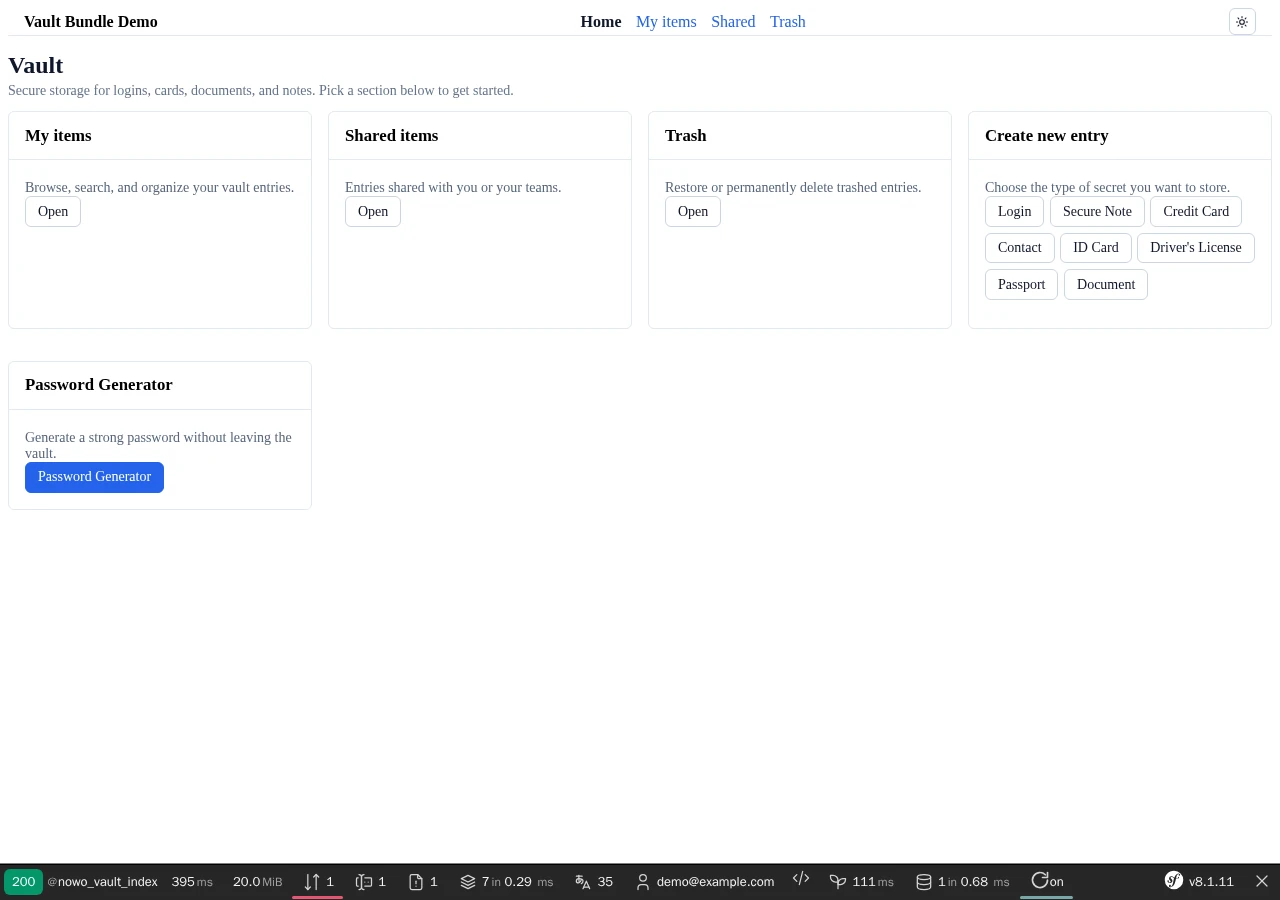
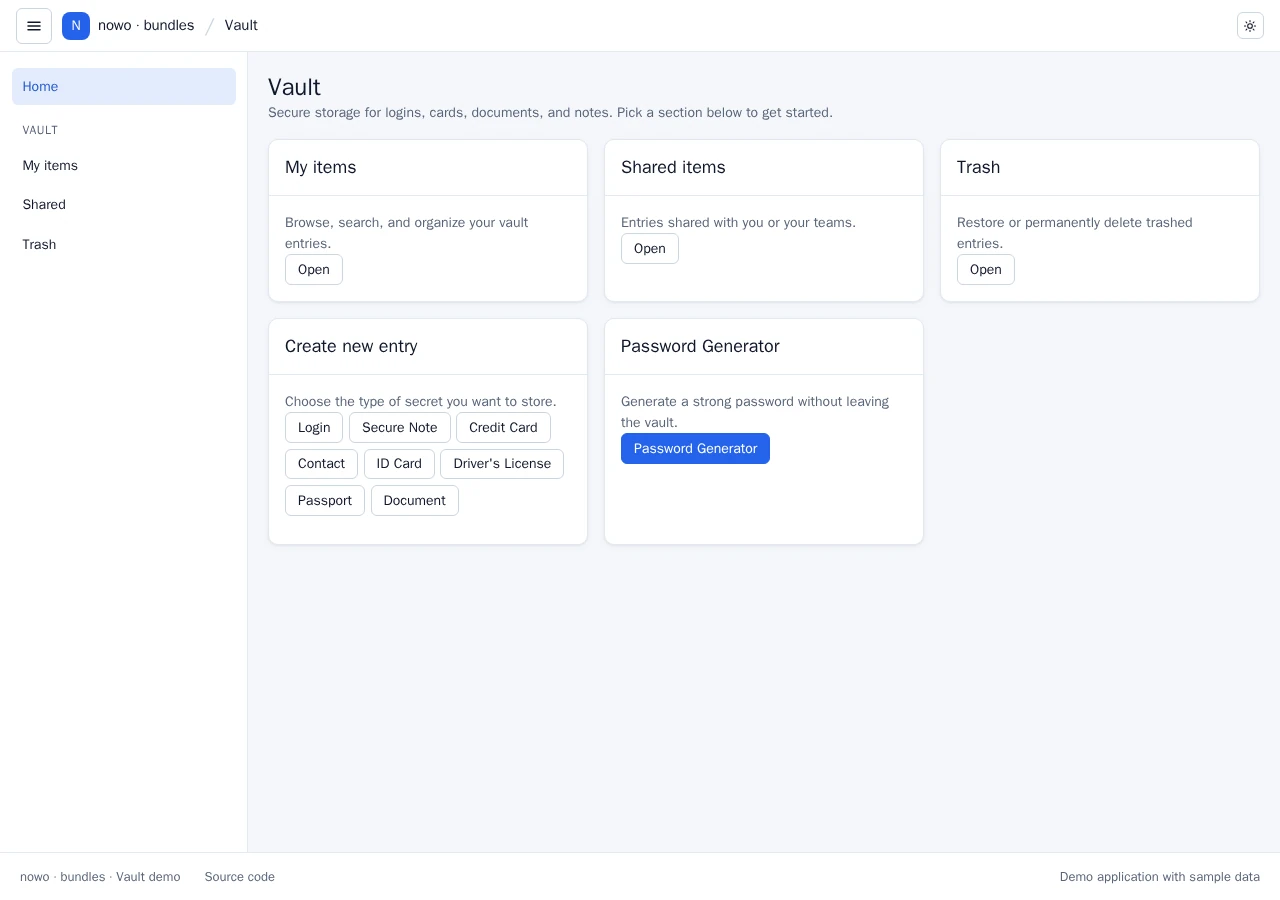
chore(demo): run the demo in UiKit's demo platform shell (#150)

diff --git a/demo/symfony8/e2e/tests/demo-platform.spec.ts b/demo/symfony8/e2e/tests/demo-platform.spec.ts
@@ -1,0 +1,176 @@
+import { test, expect, type Page } from '@playwright/test';
+import AxeBuilder from '@axe-core/playwright';
+
+/**
+ * UiKit demo platform shell (REQ-DEMO-014): layout grammar, demo styles, host theme tokens, framework classes, the
+ * closed phone drawer, 44 px touch targets and input borders on every demo page, plus axe (wcag2a / 2aa / 21a / 21aa,
+ * serious + critical = 0) in light and dark, desktop and phone, and the keyboard drawer pass.
+ */
+type Theme = 'light' | 'dark';
+type PageEntry = string | ((page: Page) => Promise<string>);
+
+async function prepare(_page: Page): Promise<void> {}
+
+async function setTheme(page: Page, theme: Theme): Promise<void> {
+  await page.evaluate((t) => {
+    document.documentElement.setAttribute('data-theme', t);
+    document.documentElement.setAttribute('data-bs-theme', t);
+  }, theme);
+}
+
+async function axe(page: Page): Promise<string[]> {
+  const result = await new AxeBuilder({ page }).withTags(['wcag2a', 'wcag2aa', 'wcag21a', 'wcag21aa']).exclude('.sf-toolbar').analyze();
+  return result.violations
+    .filter((v) => v.impact === 'serious' || v.impact === 'critical')
+    .map((v) => `${v.id}: ${v.nodes.map((n) => n.target.join(' ')).join(', ')}`);
+}
+
+/** The demo layout + style rules (docs/USAGE.md "Demo platform shell"; same function as the rollout brief's spec): layout grammar,
+ * no demo styles / host tokens / framework classes, closed drawer inert, 44 px targets on coarse pointers, input borders 3:1. */
+/* eslint-disable */
+// prettier-ignore
+function demoPlatformRules(): string[] {
+  const issues = [];
+  const main = document.querySelector('#nowo-ui-content');
+  const shell = document.querySelector('[data-testid="demo-platform"]');
+  if (!main || !shell) return ['no-demo-platform-shell'];
+  const visible = (el) => !!(el.offsetWidth || el.offsetHeight || el.getClientRects().length);
+  const carded = (el) => el.closest('.nowo-ui-card, [data-nowo-ui-region="table"], [data-nowo-ui-region="form"], .nowo-ui-form-panel, dialog');
+  const skip = (el) => el.closest('dialog, [data-nowo-ui-region="filters"], .nowo-ui-filters, .nowo-ui-page-header');
+
+  // Layout grammar.
+  main.querySelectorAll('table').forEach((t) => { if (!carded(t)) issues.push('table-outside-card'); });
+  main.querySelectorAll('form').forEach((f) => {
+    if (f.querySelector('input:not([type="hidden"]), select, textarea') && !carded(f) && !skip(f) && !f.closest('table')) issues.push('form-outside-card');
+  });
+  const primaries = [...main.querySelectorAll('.nowo-ui-btn--primary')].filter((b) => visible(b) && !b.closest('table, dialog, [data-nowo-ui-region="filters"], .nowo-ui-filters, form'));
+  if (primaries.length > 1) issues.push(`primary-buttons:${primaries.length}`);
+  const header = main.querySelector('.nowo-ui-page-header');
+  const flashes = main.querySelector('.nowo-ui-flashes');
+  if (header && flashes && (flashes.compareDocumentPosition(header) & Node.DOCUMENT_POSITION_FOLLOWING)) issues.push('flashes-before-page-header');
+  if (document.documentElement.scrollWidth > document.documentElement.clientWidth + 1) issues.push('page-scrolls-horizontally');
+
+  // Styles: no demo styles, no host theme tokens, no CDN / foreign stylesheet, no framework classes inside the shell.
+  document.querySelectorAll('style').forEach((s) => {
+    if (s.matches('[data-nowo-ui-theme-tokens], [data-nowo-ui-appearance]')) { issues.push('host-theme-tokens'); return; }
+    if (!/sf-toolbar|sfwdt|sf-minitoolbar|sf-display/.test(s.textContent || '') && !s.closest('[id^="sfwdt"], .sf-toolbar')) issues.push('style-element');
+  });
+  document.querySelectorAll('link[rel="stylesheet"]').forEach((l) => {
+    const path = new URL(l.href, location.href).pathname;
+    if (!path.startsWith('/bundles/') && !path.startsWith('/_wdt/') && !path.startsWith('/_profiler/')) issues.push(`stylesheet:${path}`);
+  });
+  const framework = /^(acme-.*|nav-tabs|nav-link|nav-item|alert|alert-.*|form-check.*|form-control|form-select|form-label|btn|btn-.*|card|card-.*|badge|row|col|col-.*|table|table-.*)$/;
+  shell.querySelectorAll('[class]').forEach((el) => {
+    for (const c of el.classList) { if (framework.test(c)) { issues.push(`framework-class:${c}`); break; } }
+  });
+
+  // Drawer: below 901 px a closed drawer is inert and the burger says so.
+  const aside = shell.querySelector('[data-nowo-ui-aside]');
+  if (aside && window.innerWidth < 901) {
+    const open = shell.classList.contains('is-aside-open-mobile');
+    if (!open && !aside.hasAttribute('inert')) issues.push('drawer-not-inert');
+    shell.querySelectorAll('[data-nowo-ui-burger]').forEach((b) => {
+      if (visible(b) && b.getAttribute('aria-expanded') !== (open ? 'true' : 'false')) issues.push('burger-state');
+    });
+  }
+
+  // Touch: 44 px targets on coarse pointers (checkbox / radio 24 px, their label carries the 44 px row).
+  if (window.matchMedia('(pointer: coarse)').matches) {
+    const controls = [...shell.querySelectorAll('.nowo-ui-btn, button, summary, input:not([type="hidden"]), select, textarea, [role="tab"], .nowo-ui-aside__link, .nowo-ui-demo-platform__locale')]
+      .filter((el) => visible(el) && !el.closest('[inert], table'));
+    for (const el of controls) {
+      const r = el.getBoundingClientRect();
+      const small = el.matches('input[type="checkbox"], input[type="radio"]') ? r.height < 24 || r.width < 24 : r.height < 43.5;
+      if (small) { issues.push(`target-under-44px:${(el.className && String(el.className).split(' ')[0]) || el.tagName.toLowerCase()}`); }
+    }
+  }
+
+  // Inputs: boundary 3:1 or more against the surface behind them (WCAG 1.4.11).
+  const rgb = (c) => { const m = c.match(/[\d.]+/g); return m ? m.slice(0, 4).map(Number) : null; };
+  const lum = (c) => { const v = c.slice(0, 3).map((x) => { const s = x / 255; return s <= 0.03928 ? s / 12.92 : ((s + 0.055) / 1.055) ** 2.4; }); return 0.2126 * v[0] + 0.7152 * v[1] + 0.0722 * v[2]; };
+  const bgOf = (el) => { for (let n = el.parentElement; n; n = n.parentElement) { const c = rgb(getComputedStyle(n).backgroundColor); if (c && (c.length < 4 || c[3] > 0)) return c; } return [255, 255, 255]; };
+  shell.querySelectorAll('input:not([type="hidden"], [type="checkbox"], [type="radio"]), select, textarea').forEach((el) => {
+    if (!visible(el) || el.closest('[inert]')) return;
+    const border = rgb(getComputedStyle(el).borderTopColor);
+    if (!border) return;
+    const a = lum(border); const b = lum(bgOf(el));
+    if ((Math.max(a, b) + 0.05) / (Math.min(a, b) + 0.05) < 3) issues.push(`input-border-under-3:1:${el.id || el.name || el.tagName.toLowerCase()}`);
+  });
+
+  return [...new Set(issues)];
+}
+
+
+const PAGES: PageEntry[] = ['/tools/vault', '/tools/vault/items', '/tools/vault/shared', '/tools/vault/trash'];
+
+const BUNDLE_OWNED: Array<{ path: RegExp; rule: RegExp }> = [];
+
+/** Findings on a bundle's own page are reported as bundle-owned (not patched in the demo): they are filtered here, by path and rule. */
+function demo(url: string, issues: string[]): string[] {
+  const path = new URL(url).pathname;
+  return issues.filter((issue) => !BUNDLE_OWNED.some((o) => o.path.test(path) && o.rule.test(issue)));
+}
+
+async function resolvePath(page: Page, entry: PageEntry): Promise<string> {
+  return typeof entry === 'function' ? entry(page) : entry;
+}
+
+test.describe('demo platform rules', () => {
+  // Device-emulating projects (phone / iphone ...) set their own context: the viewport blocks below do it explicitly.
+  test.beforeEach(async ({}, testInfo) => {
+    test.skip(/phone/i.test(testInfo.project.name), 'viewport blocks set their own context');
+  });
+
+  test('desktop 1440 px', async ({ page }) => {
+    await page.setViewportSize({ width: 1440, height: 900 });
+    await prepare(page);
+    for (const path of PAGES) {
+      await page.goto(await resolvePath(page, path));
+      expect(demo(page.url(), await page.evaluate(demoPlatformRules)), page.url()).toEqual([]);
+    }
+  });
+
+  test.describe('phone 390 px, touch', () => {
+    test.use({ viewport: { width: 390, height: 844 }, isMobile: true, hasTouch: true });
+
+    test('rules on every page', async ({ page }) => {
+      await prepare(page);
+      for (const path of PAGES) {
+        await page.goto(await resolvePath(page, path));
+        expect(demo(page.url(), await page.evaluate(demoPlatformRules)), page.url()).toEqual([]);
+      }
+    });
+
+    test('keyboard drawer pass', async ({ page }) => {
+      await prepare(page);
+      await page.goto(await resolvePath(page, PAGES[0]));
+      const aside = page.locator('[data-nowo-ui-aside]');
+      await expect(aside).toHaveAttribute('inert', '');
+      const burger = page.locator('[data-nowo-ui-burger]').first();
+      await expect(burger).toHaveAttribute('aria-expanded', 'false');
+      await burger.focus();
+      await page.keyboard.press('Enter');
+      await expect(page.getByTestId('demo-platform')).toHaveClass(/is-aside-open-mobile/);
+      await expect(page.locator('[data-nowo-ui-aside] :focus')).toHaveCount(1);
+      await expect(page.locator('.nowo-ui-main')).toHaveAttribute('inert', '');
+      await expect(page.locator('html')).toHaveClass(/nowo-ui-drawer-open/);
+      await page.keyboard.press('Escape');
+      await expect(burger).toBeFocused();
+      await expect(aside).toHaveAttribute('inert', '');
+    });
+  });
+
+  for (const theme of ['light', 'dark'] as Theme[]) {
+    for (const [name, width] of [['desktop', 1440], ['phone', 390]] as const) {
+      test(`axe clean: ${name}, ${theme}`, async ({ page }) => {
+        await page.setViewportSize({ width, height: 900 });
+        await prepare(page);
+        for (const path of PAGES) {
+          await page.goto(await resolvePath(page, path));
+          await setTheme(page, theme);
+          expect(demo(page.url(), await axe(page)), page.url()).toEqual([]);
+        }
+      });
+    }
+  }
+});

diff --git a/demo/symfony8/e2e/tests/helpers.ts b/demo/symfony8/e2e/tests/helpers.ts
@@ -1,10 +1,7 @@
 import { expect, type Page } from '@playwright/test';
 
-/** Wait for the Symfony WebProfiler toolbar (dev) so it is part of the capture. */
+/** The Symfony WebProfiler toolbar is not part of the demo platform: hide it so it never appears in a capture. */
 export async function waitForToolbar(page: Page): Promise<void> {
-  const toolbar = page.locator('.sf-toolbar');
-  if (await toolbar.count()) {
-    await expect(toolbar.locator('.sf-toolbar-block').first()).toBeVisible({ timeout: 15_000 });
-    await page.waitForTimeout(400);
-  }
+  await page.addStyleTag({ content: '.sf-toolbar,.sf-minitoolbar,[id^="sfwdt"]{display:none!important}' });
+  await page.waitForTimeout(300);
 }

diff --git a/docs/CHANGELOG.md b/docs/CHANGELOG.md
@@ -59,6 +59,10 @@ and this project adheres to [Semantic Versioning](https://semver.org/spec/v2.0.0
 
 ## [Unreleased]
 
+### Changed
+
+- Demo: runs in UiKit's demo platform shell (`nowo-tech/ui-kit-bundle` ^2.60; shared top bar, aside, page header and section cards; no demo stylesheet or `<style>`). Demo only, no bundle change.
+
 ## [1.21.2] - 2026-11-20
 
 ### Fixed
